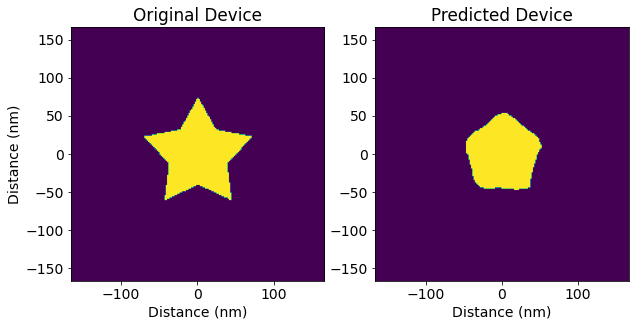
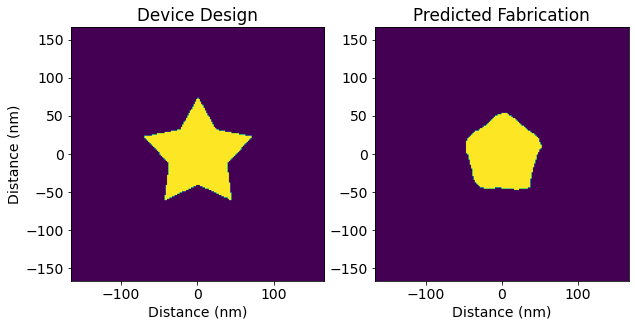
Small updates to predictor.py and promo image

Changed region(s): [[0.6283, 0.0, 0.9276, 0.0612], [0.2094, 0.0, 0.4189, 0.0917]]

diff --git a/predictor.py b/predictor.py
@@ -95,28 +95,29 @@ length_nm = 5000 # length of device (nm)
 scale = 1/(res/(length_nm/device.shape[1]))
 device = cv2.resize(device, (0, 0), fx = scale, fy = scale)
 device[device < 0.5], device[device >= 0.5] = 0, 1
-device = np.pad(device, [(100, 100), (100, 100)], mode = 'constant')
+pad = 10
+device = np.pad(device, [(pad, pad), (pad, pad)], mode = 'constant')
 device_size = (res*device.shape[0], res*device.shape[1])
 
 # run the prediction
 run = "example"     # name of the data directory (of dataset)
 version = 0         # version number (user defined, of dataset)
-model_nums = [0]    # can list multiple models here for smoother prediction
+model_nums = [0]    # can list multiple models here for better prediction
 step_size = 32      # step size for prediction scan (px)
 p = Predictor(run = run, version = version, model_nums = model_nums)
-prediction = p.predict(device = device, step_size = step_size, binarize = False)
+prediction = p.predict(device = device, step_size = step_size, binarize = True)
 
 # show the results
 plt.imshow(device, extent = [-device_size[1]/2, device_size[1]/2,
     -device_size[0]/2, device_size[0]/2])
-plt.title('Original Device')
+plt.title('Device Design')
 plt.ylabel('Distance (nm)')
 plt.xlabel('Distance (nm)')
 plt.show()
 
 plt.imshow(prediction, extent = [-device_size[1]/2, device_size[1]/2,
     -device_size[0]/2, device_size[0]/2])
-plt.title('Predicted Device')
+plt.title('Predicted Fabrication')
 plt.ylabel('Distance (nm)')
 plt.xlabel('Distance (nm)')
 plt.show()
